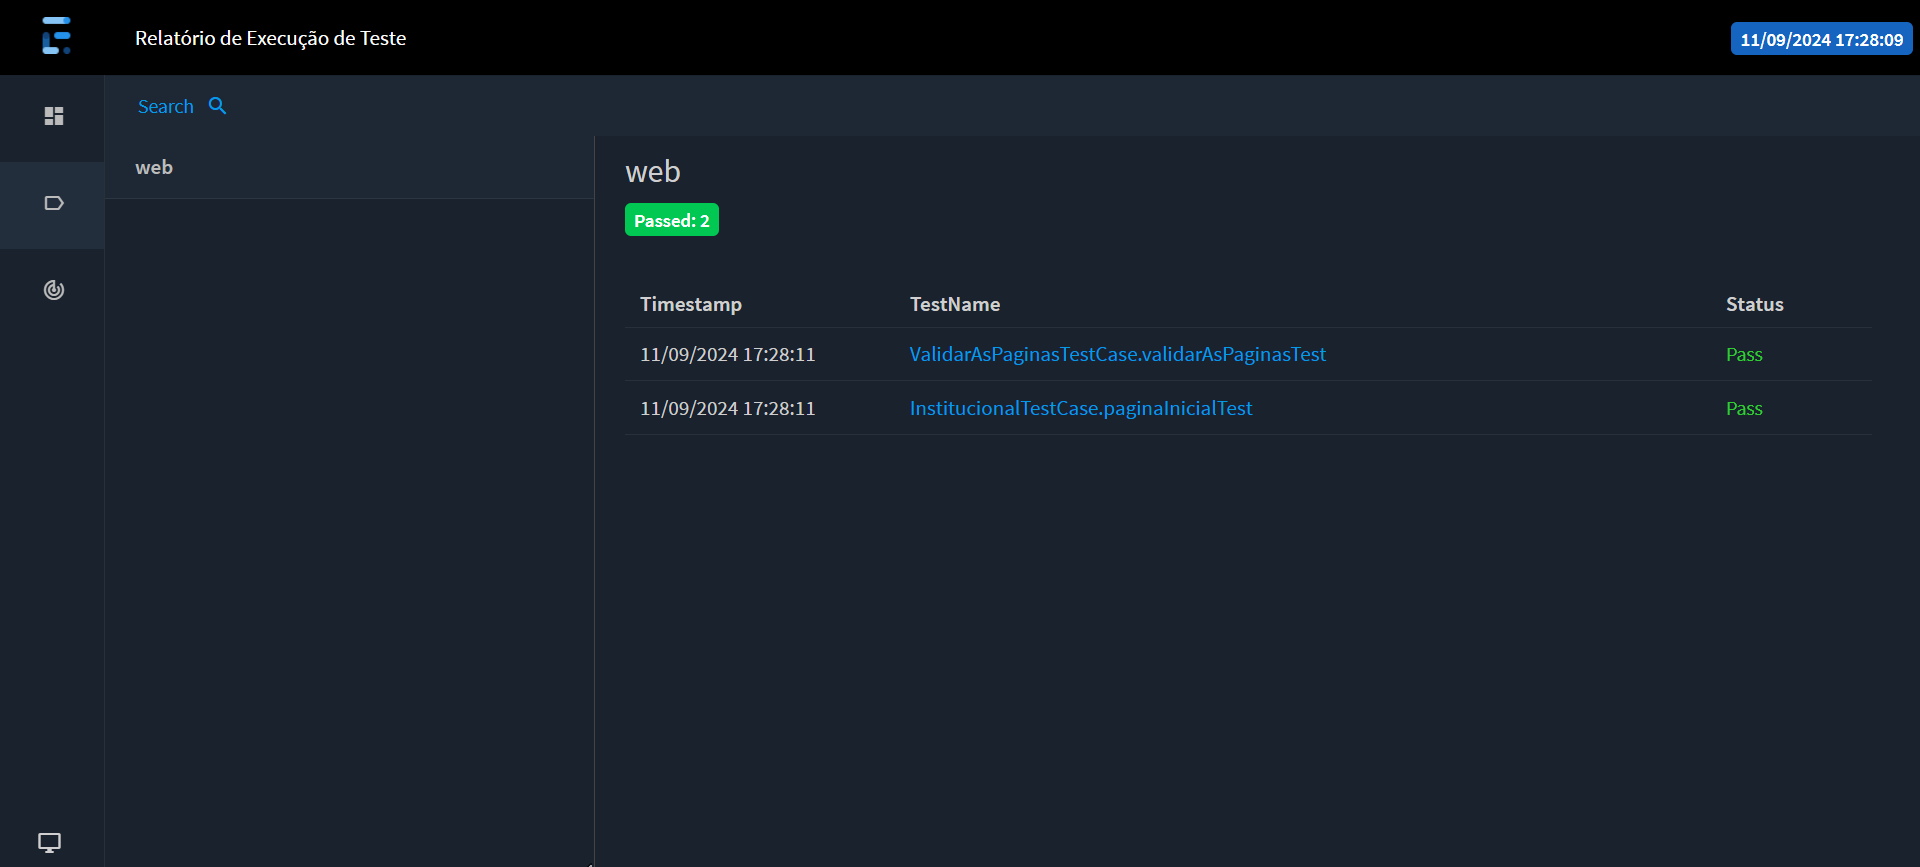
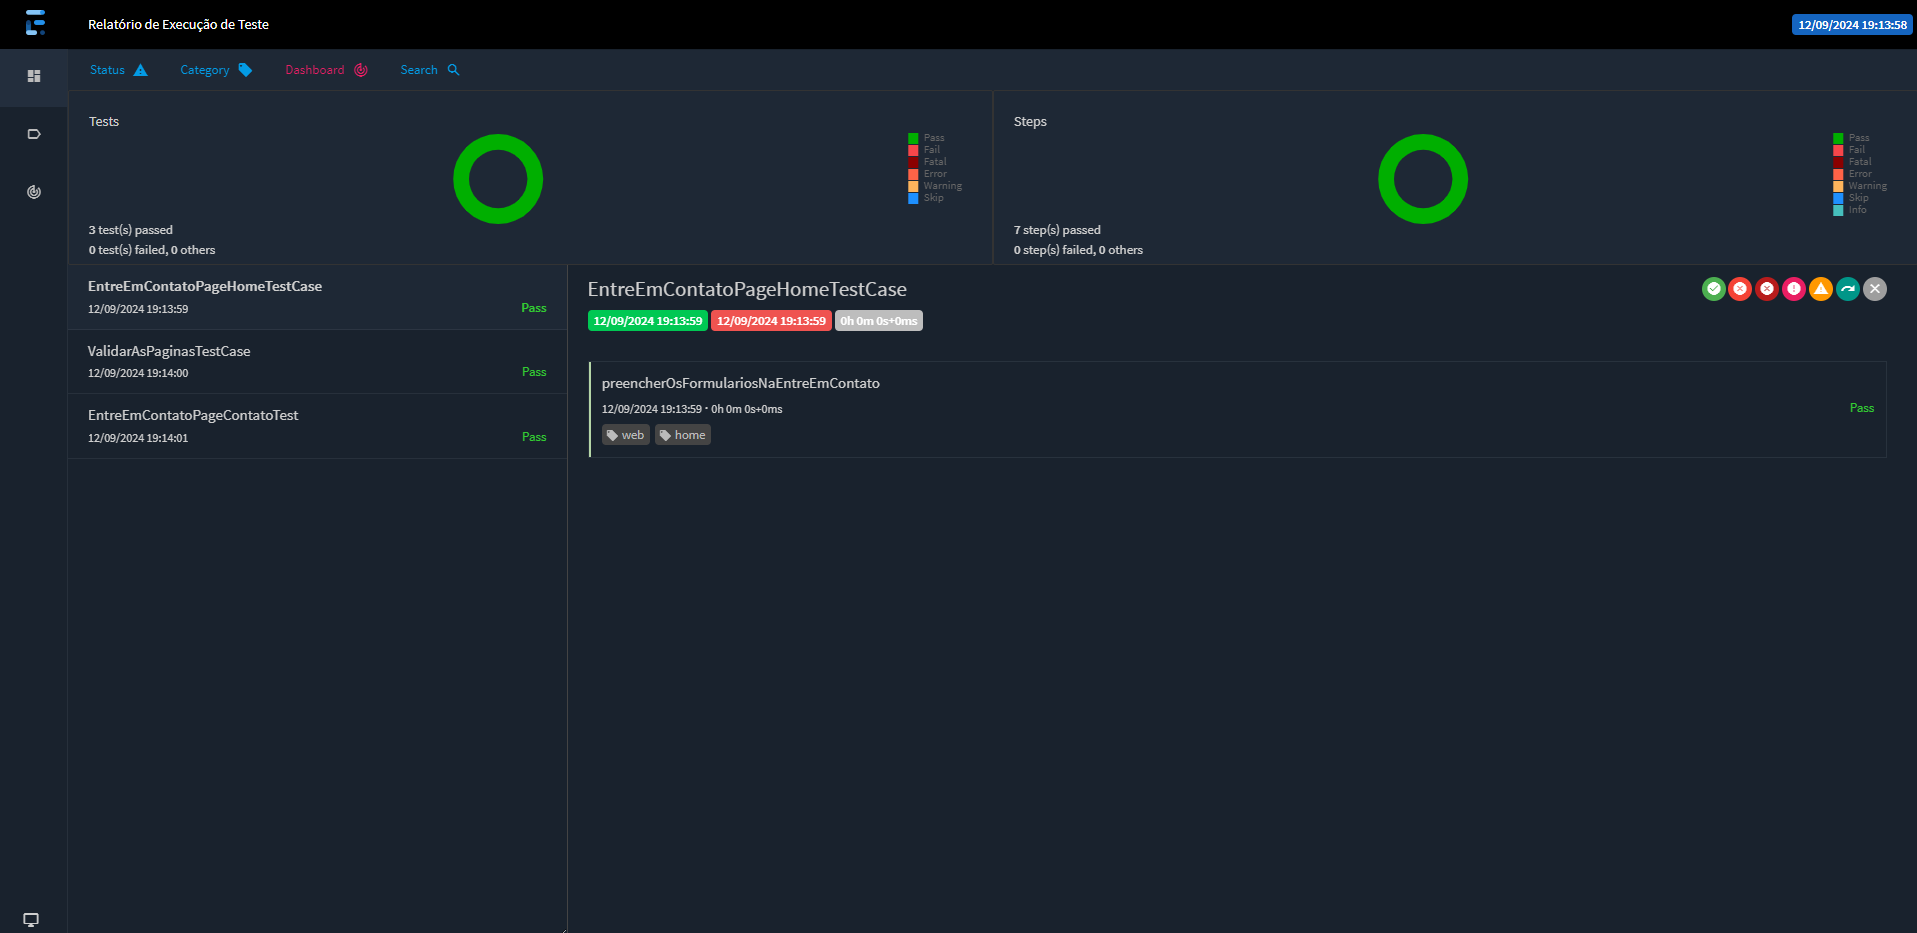
atualizei no readme

diff --git a/README.md b/README.md
@@ -8,7 +8,7 @@
   
 ---  
 
-:clipboard: -
+:clipboard: - [ABC Tecnhology](https://site-institucional-db-fork.vercel.app/)
   
 ---  
 
@@ -65,7 +65,7 @@ Após a execução do projeto, para visualizar o relatório:
 Abra a pasta de report e selecione o arquivo report.html. Clique com o botão direito do mouse, vá em "Open in", depois "Browser" e escolha o navegador da sua preferência.
 
 #### Screenshot:
-em construção...
+![](src/main/resources/img/screenshot_report.png)
 
 ---
 :robot::coffee:
